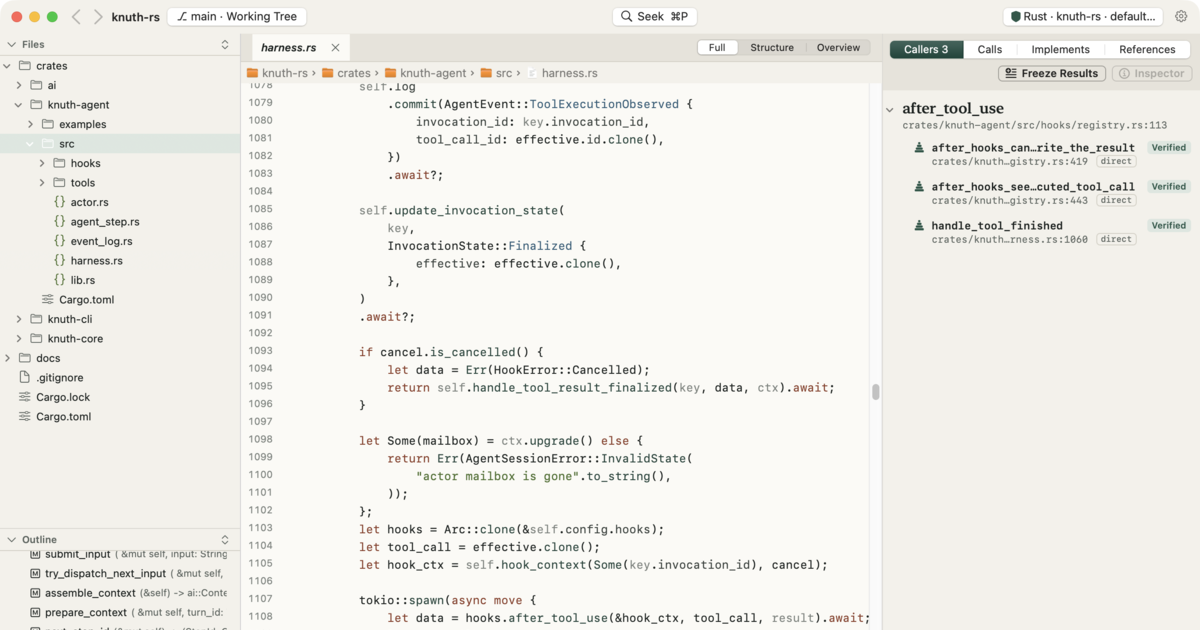
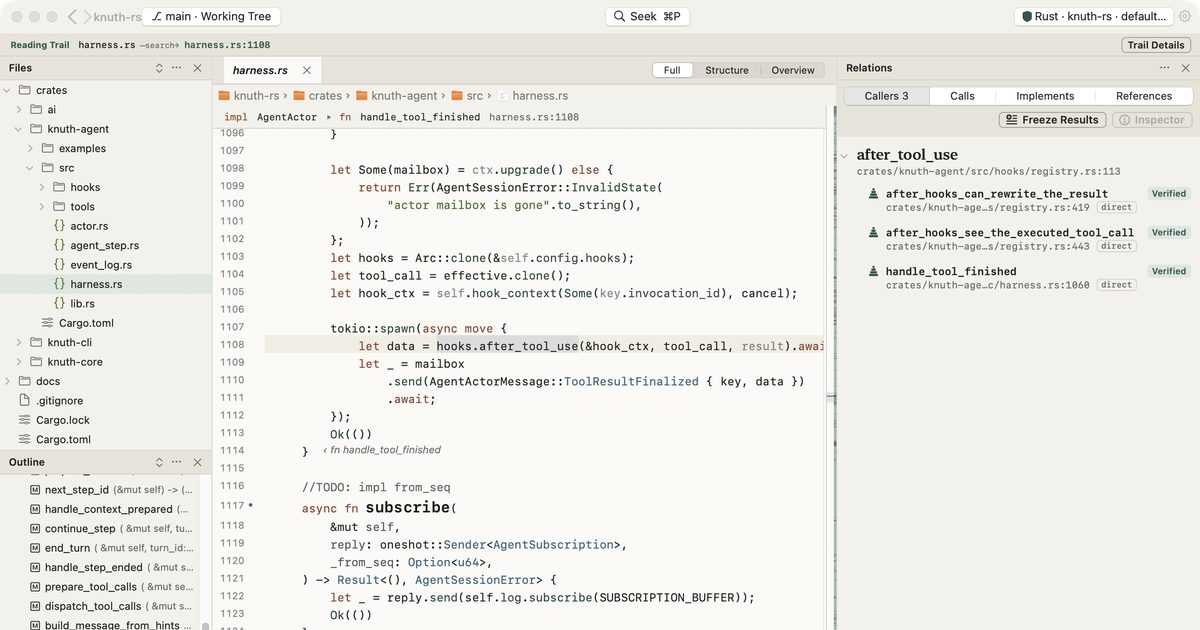
docs(site): scroll tour of the 0.5 reader, AI and guide
Replace the single September screenshot with five captures from the packaged 0.5.0 app that swap as the page scrolls, and update the copy for AI questions, the file guide, Overview skeletons and the build requirements.

diff --git a/site/index.html b/site/index.html
@@ -3,7 +3,7 @@
 <head>
   <meta charset="utf-8">
   <meta name="viewport" content="width=device-width, initial-scale=1">
-  <meta name="description" content="Cairn is a read-only code reader for macOS. Follow symbols and callers in Rust, Python, TypeScript, and Go, and browse Git commits without checkout.">
+  <meta name="description" content="Cairn is a read-only code reader for macOS. Follow symbols and callers in Rust, Python, TypeScript, and Go, distill a file to its skeleton, ask a model you choose about the code, and browse Git commits without checkout.">
   <meta name="theme-color" content="#ece6da">
   <title>Cairn — Open-source code reader for macOS</title>
   <link rel="canonical" href="https://cairn.sonald.me/">
@@ -22,7 +22,7 @@
     "@context": "https://schema.org",
     "@type": "SoftwareApplication",
     "name": "Cairn",
-    "description": "Cairn is a read-only code reader for macOS. Follow symbols and callers in Rust, Python, TypeScript, and Go, and browse Git commits without checkout.",
+    "description": "Cairn is a read-only code reader for macOS. Follow symbols and callers in Rust, Python, TypeScript, and Go, distill a file to its skeleton, ask a model you choose about the code, and browse Git commits without checkout.",
     "url": "https://cairn.sonald.me/",
     "image": "https://cairn.sonald.me/assets/og.png",
     "applicationCategory": "DeveloperApplication",
@@ -33,6 +33,7 @@
     "offers": { "@type": "Offer", "price": "0", "priceCurrency": "USD" }
   }
   </script>
+  <script>document.documentElement.classList.add("js")</script>
   <link rel="stylesheet" href="./style.css">
   <script src="./script.js" defer></script>
 </head>
@@ -60,6 +61,7 @@
           Cairn
         </a>
         <nav aria-label="Main navigation">
+          <a href="#tour">Tour</a>
           <a href="#evidence">Evidence</a>
           <a href="#time">Time</a>
           <a href="#start">Get started</a>
@@ -72,9 +74,9 @@
           <div>
             <p class="eyebrow">Unfamiliar code is terrain. Leave cairns.</p>
             <h1 id="headline">A read-only<br>code <em>reader</em><br>for macOS</h1>
-            <p class="lede">Cairn marks the way through a codebase you didn’t write — symbols, callers, any commit in its history — shows the evidence for every step, and remembers the path so you can walk it again. It never edits a line.</p>
+            <p class="lede">Cairn marks the way through a codebase you didn’t write — symbols, callers, any commit in its history — shows the evidence for every step, and remembers the path so you can walk it again. When you want a second pair of eyes, a model you choose reads along through the same read-only tools. Nothing edits a line.</p>
             <div class="cta">
-              <a class="btn dark" href="https://github.com/sonald/cairn/releases/tag/v0.4.0">Download 0.4.0 preview <span aria-hidden="true">→</span></a>
+              <a class="btn dark" href="https://github.com/sonald/cairn/releases/tag/v0.5.0">Download 0.5.0 preview <span aria-hidden="true">→</span></a>
               <a class="btn ghost" href="https://github.com/sonald/cairn">Read the source</a>
             </div>
             <p class="meta">macOS 14+ · Apple silicon · Rust · Python · TypeScript · TSX · Go · MIT</p>
@@ -106,12 +108,50 @@
           </button>
         </section>
 
-        <figure class="shot">
-          <a href="./assets/reader.png" aria-label="View full-size Cairn application screenshot">
-            <img src="./assets/reader.webp" width="1800" height="1433" fetchpriority="high" alt="Cairn’s native macOS reader showing Rust source from knuth-rs, with Files, Outline and three Verified callers of after_tool_use.">
-          </a>
-          <figcaption><span>Fig. 1 — Reading <code>harness.rs</code> in knuth-rs: every caller of <code>after_tool_use</code>, verified.</span><span>Native AppKit · Swift 6</span></figcaption>
-        </figure>
+        <section class="tour" id="tour" aria-label="A tour of Cairn">
+          <div class="steps">
+            <article class="step" data-i="0">
+              <p class="eyebrow">Follow</p>
+              <h3>Every jump shows its evidence</h3>
+              <p>Click a symbol to see its callers, calls, implementations and references. Each result says how it was found — Cairn’s index or a language server such as rust-analyzer — and whether the file changed since.</p>
+              <img class="step-shot" src="./assets/tour-reader.webp" width="1600" height="1057" loading="lazy" alt="Cairn reading harness.rs in knuth-rs, with three verified callers of after_tool_use in the Relations panel.">
+            </article>
+            <article class="step" data-i="1">
+              <p class="eyebrow">Overview</p>
+              <h3>A file, distilled to its skeleton</h3>
+              <p>Overview shows a Rust or Python file in source order: main-line functions keep their key statements, the rest shrink to one-line signatures. Line numbers stay the source’s; click one to land there. With a Jev key, TypeSafe’s Jev helps pick what stays.</p>
+              <img class="step-shot" src="./assets/tour-overview.webp" width="1600" height="1057" loading="lazy" alt="Overview of harness.rs: a skeleton of its functions numbered with their source lines.">
+            </article>
+            <article class="step" data-i="2">
+              <p class="eyebrow">Ask AI</p>
+              <h3>Ask the codebase, see what it read</h3>
+              <p>Select code and press <kbd>⌘I</kbd>, or ask in the AI panel. The model you configure reads only through Cairn’s read-only tools — files, search, symbols backed by the language server, Git history. Its steps fold into one line above the answer, and every cited line opens in the reader.</p>
+              <img class="step-shot" src="./assets/tour-ask.webp" width="1600" height="1057" loading="lazy" alt="The AI panel answering a question about after_tool_use, with its eight reading steps expanded above the answer.">
+            </article>
+            <article class="step" data-i="3">
+              <p class="eyebrow">Guide</p>
+              <h3>A guide to the file in front of you</h3>
+              <p>The Guide panel writes how the open file is put together: its flows with step-by-step playback, the role of each part, a sequence diagram and questions worth asking next. Every code anchor is checked against the file’s real lines. Guides are kept locally and flagged when the file changes.</p>
+              <img class="step-shot" src="./assets/tour-guide.webp" width="1600" height="1057" loading="lazy" alt="The Guide panel for hooks/registry.rs playing a flow; step 3 is selected in the reader.">
+            </article>
+            <article class="step" data-i="4">
+              <p class="eyebrow">Look back</p>
+              <h3>Any commit, no checkout</h3>
+              <p>Open a past commit as a read-only snapshot and compare it with the working tree side by side. Exact analysis follows you there, in a checkout Cairn owns; your repository is never touched.</p>
+              <img class="step-shot" src="./assets/tour-compare.webp" width="1600" height="1057" loading="lazy" alt="hooks/types.rs in the working tree beside the same file at commit 864d216.">
+            </article>
+          </div>
+          <div class="stage" aria-hidden="true">
+            <div class="frame">
+              <img src="./assets/tour-reader.webp" width="1600" height="1057" fetchpriority="high" class="on" alt="">
+              <img src="./assets/tour-overview.webp" width="1600" height="1057" loading="lazy" alt="">
+              <img src="./assets/tour-ask.webp" width="1600" height="1057" loading="lazy" alt="">
+              <img src="./assets/tour-guide.webp" width="1600" height="1057" loading="lazy" alt="">
+              <img src="./assets/tour-compare.webp" width="1600" height="1057" loading="lazy" alt="">
+            </div>
+            <p class="stage-cap">Cairn 0.5.0 reading <a href="https://github.com/sonald/knuth-rs/tree/fac975a" tabindex="-1">knuth-rs @ fac975a</a></p>
+          </div>
+        </section>
       </main>
     </div>
   </div>
@@ -207,7 +247,8 @@
       <ul>
         <li><s>save files</s><span>read-only reader</span></li>
         <li><s>run build scripts or proc macros</s><span>disabled in Safe Reading Mode</span></li>
-        <li><s>reach the network</s><span>denied by default</span></li>
+        <li><s>reach the network on its own</s><span>only the AI you set up, or a download you click</span></li>
+        <li><s>let the AI edit or run anything</s><span>its tools only read</span></li>
         <li><s>git checkout in your repo</s><span>snapshots are virtual</span></li>
         <li><s>forget where you were</s><span>tabs, trail and Reading Sets restore</span></li>
       </ul>
@@ -218,11 +259,11 @@
     <div>
       <p class="eyebrow">Base camp</p>
       <h2 id="start-title">Start with a codebase.<br>Leave with a mental model.</h2>
-      <p>Download the <a href="https://github.com/sonald/cairn/releases/tag/v0.4.0">0.4.0 preview</a> (macOS 14+, Apple silicon). It is ad‑hoc signed and not notarized, so on first launch right‑click Cairn.app and choose Open. Or build it yourself with a Swift 6 toolchain and Homebrew’s libgit2.</p>
+      <p>Download the <a href="https://github.com/sonald/cairn/releases/tag/v0.5.0">0.5.0 preview</a> (macOS 14+, Apple silicon). It is ad‑hoc signed and not notarized, so on first launch right‑click Cairn.app and choose Open. Or build it yourself with Xcode 27.1, Homebrew’s libgit2 and a Rust toolchain from rustup.</p>
       <p class="langs"><span>Rust</span><span>Python</span><span>TypeScript</span><span>TSX</span><span>Go</span></p>
       <a class="guide" href="https://github.com/sonald/cairn#build-and-run">Read the build guide <span aria-hidden="true">↗</span></a>
     </div>
-    <pre class="term" aria-label="Commands to clone, build and open Cairn"><span class="c"># clone, build, open</span>
+    <pre class="term" aria-label="Commands to clone, build and open Cairn"><span class="c"># clone, build, open (Xcode 27.1 + rustup)</span>
 <span class="p">$ </span>git clone https://github.com/sonald/cairn.git
 <span class="p">$ </span>cd cairn &amp;&amp; brew install libgit2
 <span class="p">$ </span>CAIRN_LIBGIT2=brew bash scripts/make-app.sh

diff --git a/site/style.css b/site/style.css
@@ -50,7 +50,7 @@ h2 { font-size: clamp(36px, 4.4vw, 58px); line-height: 1.02; letter-spacing: -.0
 .header nav a:hover, .footer nav a:hover { color: var(--ink); }
 
 /* hero */
-.hero { position: relative; overflow: hidden; }
+.hero { position: relative; overflow: clip; }
 .contours { position: absolute; top: -10%; right: -20%; width: 120%; height: 130%; pointer-events: none; }
 .contours path { fill: none; stroke: var(--contour); stroke-width: 1; }
 .hero .wrap { position: relative; }
@@ -88,12 +88,25 @@ h1 em { color: var(--moss); }
 .card .ok { font-size: 10px; fill: var(--moss); }
 .here { font: italic 15px var(--serif); fill: var(--ochre); }
 
-/* screenshot */
-.shot { margin: 0; padding-bottom: 20px; }
-.shot a { display: block; border-radius: 14px; }
-.shot img { display: block; width: 100%; height: auto; border-radius: 14px; box-shadow: 0 40px 80px -30px #3a2f1c55, 0 0 0 1px #0000001a; }
-.shot figcaption { display: flex; justify-content: space-between; gap: 20px; font: 12px var(--mono); color: var(--muted); margin-top: 16px; }
-.shot code { font: inherit; color: var(--ink); }
+/* tour: text steps scroll past a sticky window that swaps screenshots */
+.tour { display: grid; grid-template-columns: minmax(0, .62fr) minmax(0, 1.38fr); gap: 56px; padding-bottom: 60px; scroll-margin-top: 10px; }
+.step { min-height: 78vh; display: flex; flex-direction: column; justify-content: center; opacity: .35; transition: opacity .4s; }
+.step.on, html:not(.js) .step { opacity: 1; }
+.step:first-child { min-height: 60vh; justify-content: flex-start; padding-top: 12vh; }
+.step:last-child { min-height: 70vh; }
+.step h3 { font-size: clamp(28px, 2.8vw, 38px); line-height: 1.08; letter-spacing: -.02em; margin: 12px 0 14px; }
+.step p:not(.eyebrow) { margin: 0; color: var(--muted); font-size: 16px; line-height: 1.7; }
+.step-shot { display: none; }
+.stage { position: sticky; top: calc(50vh - min(26vw, 330px)); align-self: start; }
+.frame { display: grid; border-radius: 12px; box-shadow: 0 40px 80px -30px #3a2f1c55, 0 0 0 1px #0000001a; overflow: hidden; background: var(--card); }
+.frame img { grid-area: 1 / 1; display: block; width: 100%; height: auto; opacity: 0; transition: opacity .45s ease; }
+.frame img.on { opacity: 1; }
+.stage-cap { font: 12px var(--mono); color: var(--muted); margin: 14px 0 0; }
+.stage-cap a { color: var(--ink); text-underline-offset: 3px; }
+html:not(.js) .stage { display: none; }
+html:not(.js) .tour { grid-template-columns: 1fr; }
+html:not(.js) .step { min-height: 0; padding: 30px 0; }
+html:not(.js) .step-shot { display: block; width: 100%; height: auto; margin-top: 22px; border-radius: 10px; box-shadow: 0 0 0 1px #0000001a; }
 
 /* sections */
 .section { padding-top: 110px; scroll-margin-top: 10px; }
@@ -215,7 +228,10 @@ h1 em { color: var(--moss); }
   .header nav a:not(:last-child) { display: none; }
   .hero-grid, .section-head, .principles-grid, .basecamp { grid-template-columns: 1fr; gap: 30px; }
   .map { max-width: 520px; margin: 0 auto; }
-  .shot figcaption span:last-child { display: none; }
+  .tour { grid-template-columns: 1fr; gap: 0; }
+  .stage { display: none; }
+  .step, .step:first-child, .step:last-child { min-height: 0; padding: 30px 0; opacity: 1; }
+  .step-shot { display: block; width: 100%; height: auto; margin-top: 22px; border-radius: 10px; box-shadow: 0 0 0 1px #0000001a; }
   .section { padding-top: 80px; }
   .reader-body, .compare { grid-template-columns: 1fr; }
   .code { border-right: 0; border-bottom: 1px solid var(--line); font-size: 12px; }
@@ -236,6 +252,6 @@ h1 em { color: var(--moss); }
   .trail-cover { animation: none; stroke-dashoffset: 1400; }
   .stop { animation: none; opacity: 1; }
   .res { animation: none; }
-  .btn, .commit i { transition: none; }
+  .btn, .commit i, .step, .frame img { transition: none; }
   .btn:hover { transform: none; }
 }

diff --git a/site/script.js b/site/script.js
@@ -10,6 +10,19 @@ trail?.addEventListener("click", () => {
   });
 });
 
+// Tour: the step crossing the middle of the viewport picks the screenshot.
+const tourShots = document.querySelectorAll(".frame img");
+const steps = document.querySelectorAll(".step");
+const observer = !("IntersectionObserver" in window) ? null : new IntersectionObserver(entries => {
+  entries.filter(e => e.isIntersecting).forEach(e => {
+    const i = +e.target.dataset.i;
+    steps.forEach((s, j) => s.classList.toggle("on", j === i));
+    tourShots.forEach((img, j) => img.classList.toggle("on", j === i));
+  });
+}, { rootMargin: "-45% 0px -45% 0px" });
+steps.forEach(s => observer?.observe(s));
+steps[0]?.classList.add("on");
+
 // Reader demo: real output from `codeinsight callers`, `resolve` and `exact-def`
 // on sonald/knuth-rs @ fac975a (crates/knuth-agent/src/harness.rs), Safe mode.
 const EXACT = "rust-analyzer ✓ same target";

diff --git a/site/README.md b/site/README.md
@@ -1,6 +1,6 @@
 # Cairn homepage
 
-Static HTML, CSS and a small vanilla `script.js` (the interactive reader and snapshot demos); no build step or runtime dependencies. The screenshot is stored at `site/assets/reader.png`.
+Static HTML, CSS and a small vanilla `script.js` (the scroll tour, the interactive reader and the snapshot demo); no build step or runtime dependencies. The tour's screenshots are `site/assets/tour-*.webp`; `og.png` is a 1200×630 crop of the reader one.
 
 ## Preview
 
@@ -22,4 +22,10 @@ Workflow configuration follows [GitHub's Pages documentation](https://docs.githu
 
 The interactive reader and snapshot timeline use real results from [sonald/knuth-rs](https://github.com/sonald/knuth-rs) at `fac975a`: callers, resolutions and certainty from `codeinsight callers`/`resolve`, Exact targets from `codeinsight exact-def` (rust-analyzer, Safe mode), and the `HookContext` history from `git show <commit>:crates/knuth-agent/src/hooks/types.rs`. Re-run those commands against a clean checkout of that commit when updating the data.
 
-The screenshot (`assets/reader.png`) shows the packaged app reading a clean clone of knuth-rs at `fac975a` (`crates/knuth-agent/src/harness.rs`, Callers of `after_tool_use`), captured with the Light theme and English UI via launch arguments: `open -a Cairn.app <clone> --args -AppleLanguages '(en)' -reader.theme Light`, then `screencapture -o -l <window-id>` (no window shadow; the page adds its own).
+The tour screenshots show the packaged 0.5.0 app reading a clean clone of knuth-rs at `fac975a` (branch `main` pointed at that commit), Light theme and English UI via launch arguments: `open -a Cairn.app <clone> --args -AppleLanguages '(en)' -reader.theme Light`, captured with `screencapture -o -l <window-id>` (no window shadow; the page adds its own) and converted with `cwebp -q 82 -resize 1600 0`. Without JavaScript, or below 860 px, each screenshot sits under its own step.
+
+- `tour-reader`: `crates/knuth-agent/src/harness.rs`, Callers of `after_tool_use`.
+- `tour-overview`: the same file in Overview, with Jev scores.
+- `tour-ask`: an AI panel answer from a real model (the one configured in Settings → AI at capture time).
+- `tour-guide`: the Guide panel for a knuth-rs file, generated by the same model.
+- `tour-compare`: `crates/knuth-agent/src/hooks/types.rs` at `864d216` compared with the working tree.
